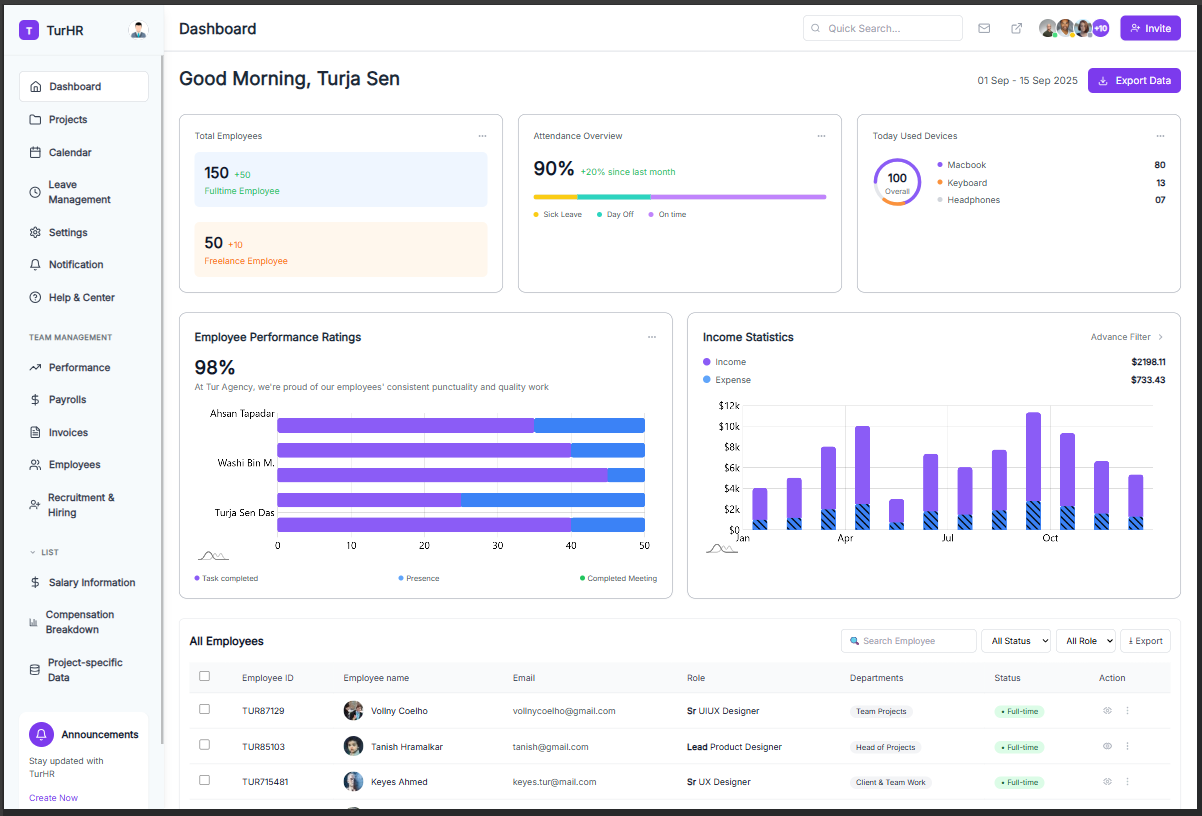
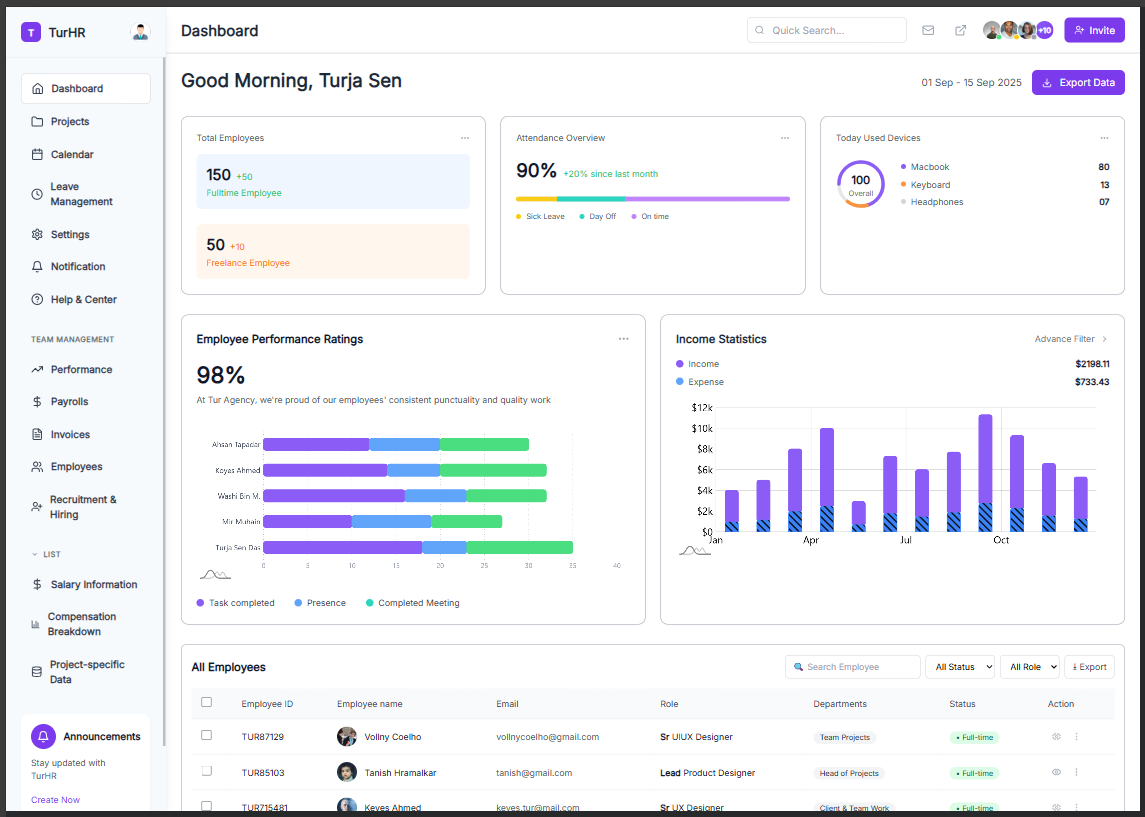
Initial upload

diff --git a/src/components/PerformanceChart.vue b/src/components/PerformanceChart.vue
@@ -1,40 +1,40 @@
 <template>
   <div class="bg-white rounded-xl shadow-sm border border-gray-400 p-6">
-    <div class="flex items-center justify-between mb-4">
-      <h3 class="text-lg font-semibold text-gray-800">Employee Performance Ratings</h3>
-      <MoreHorizontal class="w-4 h-4 text-gray-400" />
+    <div class="flex items-center justify-between mb-6">
+      <h3 class="text-lg font-semibold text-gray-900">Employee Performance Ratings</h3>
+      <MoreHorizontal class="w-5 h-5 text-gray-400 cursor-pointer" />
     </div>
     
-    <div class="mb-4">
-      <div class="flex items-center space-x-2">
-        <span class="text-3xl font-bold text-gray-900">98%</span>
+    <div class="mb-6">
+      <div class="flex items-baseline space-x-2 mb-2">
+        <span class="text-4xl font-bold text-gray-900">98%</span>
       </div>
-      <p class="text-sm text-gray-500 mt-1">At Tur Agency, we're proud of our employees' consistent punctuality and quality work</p>
+      <p class="text-sm text-gray-600 leading-relaxed">At Tur Agency, we're proud of our employees' consistent punctuality and quality work</p>
     </div>
 
     <!-- Performance Chart -->
-    <div ref="chartDiv" class="h-64 w-full"></div>
+    <div ref="chartDiv" class="h-64 w-full mb-6"></div>
 
     <!-- Legend -->
-    <div class="flex justify-between text-xs mt-4">
+    <div class="flex items-center justify-start space-x-8 text-sm">
       <div class="flex items-center">
-        <div class="w-2 h-2 bg-purple-500 rounded-full mr-1"></div>
-        <span class="text-gray-600">Task completed</span>
+        <div class="w-3 h-3 bg-purple-500 rounded-full mr-2"></div>
+        <span class="text-gray-700">Task completed</span>
       </div>
       <div class="flex items-center">
-        <div class="w-2 h-2 bg-blue-400 rounded-full mr-1"></div>
-        <span class="text-gray-600">Presence</span>
+        <div class="w-3 h-3 bg-blue-400 rounded-full mr-2"></div>
+        <span class="text-gray-700">Presence</span>
       </div>
       <div class="flex items-center">
-        <div class="w-2 h-2 bg-green-500 rounded-full mr-1"></div>
-        <span class="text-gray-600">Completed Meeting</span>
+        <div class="w-3 h-3 bg-teal-400 rounded-full mr-2"></div>
+        <span class="text-gray-700">Completed Meeting</span>
       </div>
     </div>
   </div>
 </template>
 
 <script>
-import { onMounted, ref } from 'vue'
+import { onMounted, ref, onUnmounted } from 'vue'
 import { MoreHorizontal } from 'lucide-vue-next'
 import * as am5 from "@amcharts/amcharts5"
 import * as am5xy from "@amcharts/amcharts5/xy"
@@ -47,10 +47,11 @@ export default {
   },
   setup() {
     const chartDiv = ref(null)
+    let root = null
 
     onMounted(() => {
       // Create root
-      let root = am5.Root.new(chartDiv.value)
+      root = am5.Root.new(chartDiv.value)
       root.setThemes([am5themes_Animated.new(root)])
 
       // Create chart
@@ -59,42 +60,67 @@ export default {
           panX: false,
           panY: false,
           wheelX: "none",
-          wheelY: "none"
+          wheelY: "none",
+          layout: root.verticalLayout
         })
       )
 
-      // Data
+      // Data - matching the image
       let data = [
-        { name: "Ahsan Tapadar", task: 35, presence: 25, meeting: 30 },
-        { name: "Koyes Ahmed", task: 40, presence: 30, meeting: 35 },
-        { name: "Washi Bin M.", task: 45, presence: 25, meeting: 30 },
-        { name: "Mir Muhain", task: 25, presence: 30, meeting: 25 },
-        { name: "Turja Sen Das", task: 40, presence: 20, meeting: 35 }
+        { name: "Ahsan Tapadar", task: 12, presence: 8, meeting: 10 },
+        { name: "Koyes Ahmed", task: 14, presence: 6, meeting: 12 },
+        { name: "Washi Bin M.", task: 16, presence: 7, meeting: 9 },
+        { name: "Mir Muhain", task: 10, presence: 9, meeting: 8 },
+        { name: "Turja Sen Das", task: 18, presence: 5, meeting: 12 }
       ]
 
-      // Create Y-axis
+      // Create Y-axis (categories)
       let yAxis = chart.yAxes.push(
         am5xy.CategoryAxis.new(root, {
           categoryField: "name",
           renderer: am5xy.AxisRendererY.new(root, {
             inversed: true,
             cellStartLocation: 0.1,
-            cellEndLocation: 0.9
+            cellEndLocation: 0.9,
+            minGridDistance: 20
           })
         })
       )
+
+      yAxis.get("renderer").labels.template.setAll({
+        fontSize: 12,
+        fontWeight: "400",
+        fill: am5.color("#374151")
+      })
+
+      yAxis.get("renderer").grid.template.setAll({
+        strokeOpacity: 0
+      })
+
       yAxis.data.setAll(data)
 
-      // Create X-axis
+      // Create X-axis (values)
       let xAxis = chart.xAxes.push(
         am5xy.ValueAxis.new(root, {
-          renderer: am5xy.AxisRendererX.new(root, {}),
+          renderer: am5xy.AxisRendererX.new(root, {
+            minGridDistance: 40
+          }),
           min: 0,
-          max: 50
+          max: 40
         })
       )
 
-      // Create series
+      xAxis.get("renderer").labels.template.setAll({
+        fontSize: 11,
+        fill: am5.color("#9CA3AF")
+      })
+
+      xAxis.get("renderer").grid.template.setAll({
+        strokeDasharray: [1, 3],
+        strokeOpacity: 0.3
+      })
+
+      // Create series function
       function createSeries(name, field, color) {
         let series = chart.series.push(
           am5xy.ColumnSeries.new(root, {
@@ -106,25 +132,36 @@ export default {
             stacked: true
           })
         )
+
         series.columns.template.setAll({
           tooltipText: "{name}: {valueX}",
           fill: am5.color(color),
           stroke: am5.color(color),
-          cornerRadiusBR: 3,
-          cornerRadiusTR: 3,
-          cornerRadiusBL: 3,
-          cornerRadiusTL: 3
+          strokeWidth: 0,
+          cornerRadiusBR: 4,
+          cornerRadiusTR: 4,
+          cornerRadiusBL: 4,
+          cornerRadiusTL: 4,
+          height: am5.percent(60)
         })
+
         series.data.setAll(data)
         return series
       }
 
-      createSeries("Task completed", "task", "#8B5CF6")
-      createSeries("Presence", "presence", "#3B82F6")
-      createSeries("Completed Meeting", "meeting", "#10B981")
+      // Create the three series with matching colors
+      createSeries("Task completed", "task", "#8B5CF6") // Purple
+      createSeries("Presence", "presence", "#60A5FA")   // Blue
+      createSeries("Completed Meeting", "meeting", "#4ADE80") // Teal/Green
 
-      // Cleanup function
-      return () => {
+      // Hide chart cursor
+      chart.set("cursor", am5xy.XYCursor.new(root, {
+        behavior: "none"
+      }))
+    })
+
+    onUnmounted(() => {
+      if (root) {
         root.dispose()
       }
     })

diff --git a/src/components/Sidebar.vue b/src/components/Sidebar.vue
@@ -154,7 +154,7 @@
                   class="w-7 h-7 rounded-full border-2 border-white object-cover"
                 />
                 <img 
-                  src="https://images.unsplash.com/photo-1494790108755-2616b612b786?w=28&h=28&fit=crop&crop=face" 
+                  src="https://images.unsplash.com/photo-1472099645785-5658abf4ff4e?w=28&h=28&fit=crop&crop=face" 
                   alt="User" 
                   class="w-7 h-7 rounded-full border-2 border-white object-cover"
                 />
